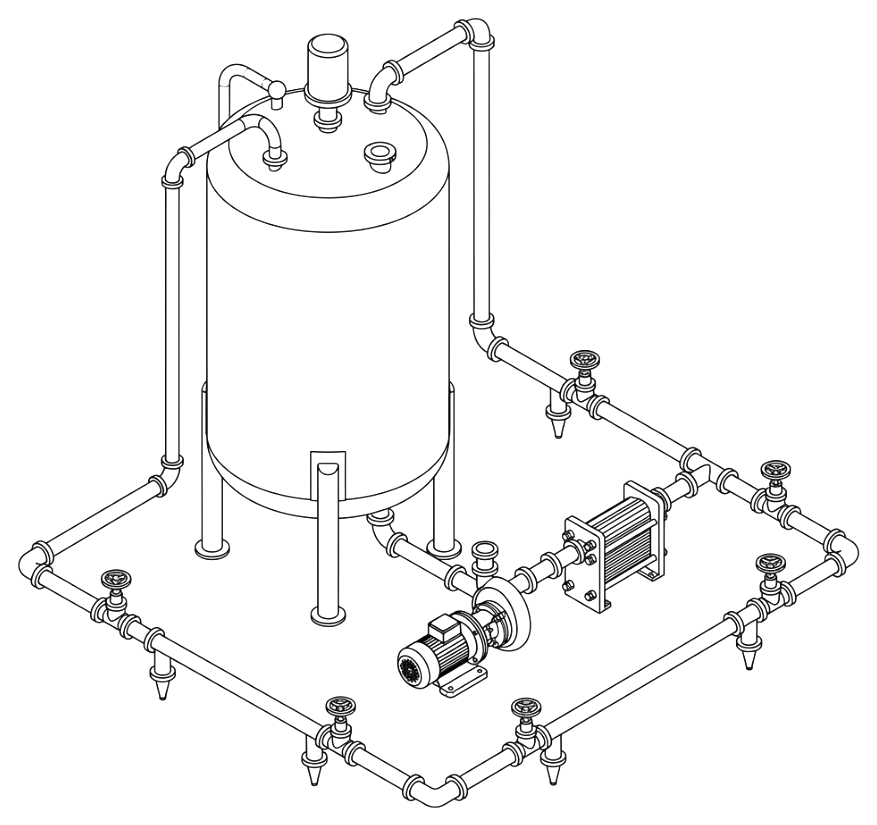
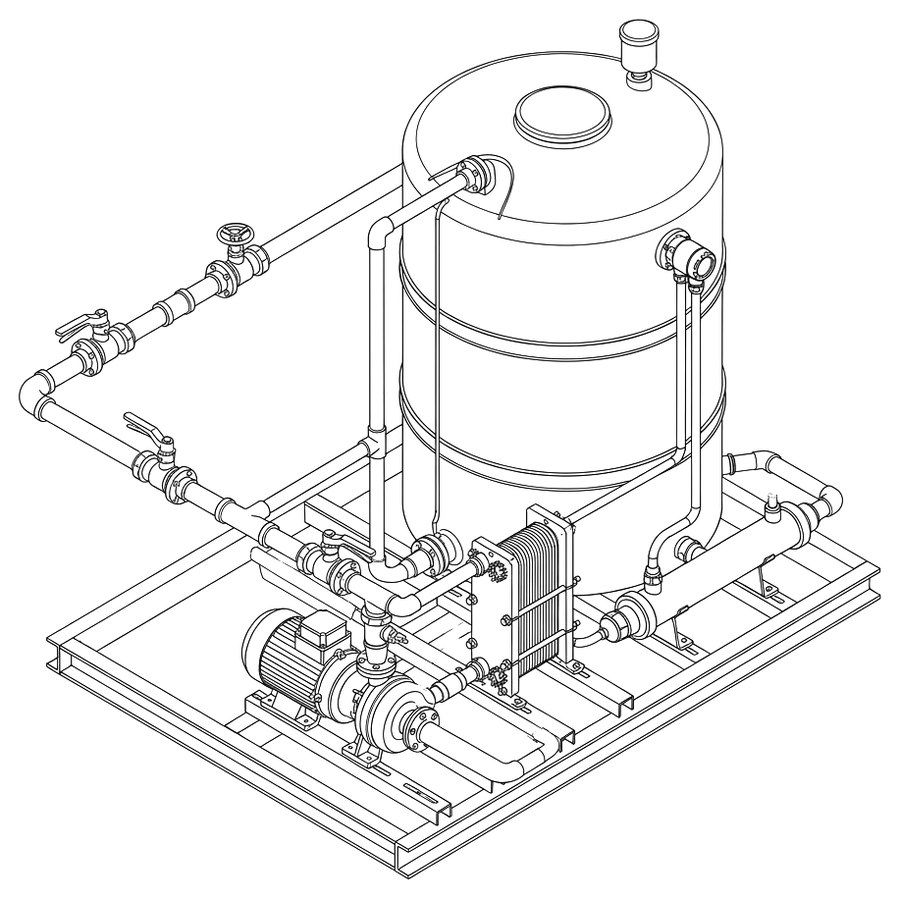
PP hero drawings for fabrication, storage and pharma
The three hero drawings that contradicted the polypropylene package are replaced, from the fixed
Illustration brief in Gemini 3.1 Pro:
- svc-fabrication: a butt-fusion machine joining two PP pipes (was an orbital weld head on sanitary
  stainless tube)
- sys-storage: a PP storage tank with vent filter, pump, heat exchanger, UV and a loop with
  point-of-use valves (was a stainless WFI-style tank)
- ind-pharma: a mixing vessel for oral liquids and creams fed from a PW point-of-use valve (was a
  sterile vial filler)

The old sources stay as -stainless / -sterile files and show as superseded in the media gallery;
the Gemini originals are kept in inspiration/gemini (65 to 67).

Changed region(s): [[0.0, 0.0, 0.9852, 1.0]]

diff --git a/assets/aquemi-site.js b/assets/aquemi-site.js
@@ -203,15 +203,15 @@ var ART={
  'sys-wfi-distillation':'Multi-effect WFI still: five columns, condenser and feed pump on one skid',
  'sys-wfi-membrane':'WFI membrane skid: double-pass RO, EDI, heat exchangers and ultrafilter',
  'sys-pure-steam':'Pure steam generator: evaporator column, separator, preheater and control panel',
- 'sys-storage':'Storage tank with distribution pump, heat exchanger and loop with point-of-use valves',
+ 'sys-storage':'Polypropylene storage tank with vent filter, distribution pump, heat exchanger, UV and loop with point-of-use valves',
  'sys-monitoring':'Wall-mounted analyser panel: TOC and conductivity transmitters, controller and sample line',
  'svc-design':'Skid design: a 3D frame model standing on its P&ID sheet, with scale rule and pencil',
- 'svc-fabrication':'Orbital weld head clamped on a sanitary tube, with tri-clamp fittings, gaskets and an elbow',
+ 'svc-fabrication':'Butt-fusion machine joining two polypropylene pipes, with heater plate, facing tool and a finished spool',
  'svc-fat-sat':'Water treatment skid hosed to a wheeled test cart with gauges, flow meter and laptop',
  'svc-service':'Field service kit: open toolbox, wrenches, spare filter cartridge, replacement pump and tri-clamp',
  'svc-upgrades':'Existing storage tank joined to a new skid module by flanged spools, one still on the hoist',
  'svc-cq':'Qualification kit: tabbed protocol binder, checklist clipboard and calibrated temperature probe',
- 'ind-pharma':'Sterile vial filling machine: enclosure with open doors, filling needles and vial conveyor',
+ 'ind-pharma':'Mixing vessel for oral liquids and creams, fed from a Purified Water point-of-use valve',
  'ind-biotech':'Jacketed bioprocess vessel with agitator drive, sanitary piping, valves and control box',
  'ind-meddevice':'Washer-disinfector with instrument racks and spray arms, fed by a purified water line',
  'ind-cdmo':'Two-room cleanroom suite with process vessels, a pass-through hatch and a shared water loop'

diff --git a/assets/src/parts/Hero.js b/assets/src/parts/Hero.js
@@ -7,15 +7,15 @@ var ART={
  'sys-wfi-distillation':'Multi-effect WFI still: five columns, condenser and feed pump on one skid',
  'sys-wfi-membrane':'WFI membrane skid: double-pass RO, EDI, heat exchangers and ultrafilter',
  'sys-pure-steam':'Pure steam generator: evaporator column, separator, preheater and control panel',
- 'sys-storage':'Storage tank with distribution pump, heat exchanger and loop with point-of-use valves',
+ 'sys-storage':'Polypropylene storage tank with vent filter, distribution pump, heat exchanger, UV and loop with point-of-use valves',
  'sys-monitoring':'Wall-mounted analyser panel: TOC and conductivity transmitters, controller and sample line',
  'svc-design':'Skid design: a 3D frame model standing on its P&ID sheet, with scale rule and pencil',
- 'svc-fabrication':'Orbital weld head clamped on a sanitary tube, with tri-clamp fittings, gaskets and an elbow',
+ 'svc-fabrication':'Butt-fusion machine joining two polypropylene pipes, with heater plate, facing tool and a finished spool',
  'svc-fat-sat':'Water treatment skid hosed to a wheeled test cart with gauges, flow meter and laptop',
  'svc-service':'Field service kit: open toolbox, wrenches, spare filter cartridge, replacement pump and tri-clamp',
  'svc-upgrades':'Existing storage tank joined to a new skid module by flanged spools, one still on the hoist',
  'svc-cq':'Qualification kit: tabbed protocol binder, checklist clipboard and calibrated temperature probe',
- 'ind-pharma':'Sterile vial filling machine: enclosure with open doors, filling needles and vial conveyor',
+ 'ind-pharma':'Mixing vessel for oral liquids and creams, fed from a Purified Water point-of-use valve',
  'ind-biotech':'Jacketed bioprocess vessel with agitator drive, sanitary piping, valves and control box',
  'ind-meddevice':'Washer-disinfector with instrument racks and spray arms, fed by a purified water line',
  'ind-cdmo':'Two-room cleanroom suite with process vessels, a pass-through hatch and a shared water loop'

diff --git a/tools/gallery.py b/tools/gallery.py
@@ -35,6 +35,15 @@ GEMINI_USE = {
     '64': 'Spot'}
 GEMINI_REFERENCE = {'58'}
 RETIRED = {'57': 'the cut icons were later replaced by the Lucide-style SVG set; see Archive', '64': 'the cut spots were retired when the site returned to the brand book; see Archive'}  # looked at as a target, not rebuilt as one thing
+# Equipment drawings redrawn on 2026-10-31 to match the offer (polypropylene PW package: no stainless piping, no sterile
+# products). page id -> (number of the old Gemini original, old source renamed in art/, what the old drawing showed).
+# The old ones show as superseded, the new ones as the PP replacements.
+ART_REPLACED = {
+    'svc-fabrication': ('14', 'svc-fabrication-stainless', 'orbital weld head on a sanitary stainless tube with tri-clamps'),
+    'sys-storage': ('08', 'sys-storage-stainless', 'stainless storage tank'),
+    'ind-pharma': ('22', 'ind-pharma-sterile', 'sterile vial filling machine')}
+ART_RETIRED_NOTE = 'Retired 2026-10-31: the %s, replaced by the polypropylene package drawing for the %s page'
+ART_PP_NOTE = 'PP replacement (2026-10-31) for the %s. '
 
 RECORD_SETS = [  # (folder in record/, label, order)
     ('pass7', 'Pass 7: the site today'),
@@ -214,7 +223,12 @@ def build():
         prompt, became = rows.get(name + '.png', ('', ''))
         if '-art-' in name:
             pid = name.split('-art-')[1]
-            add(f, 'gemini', 'source', title_of(name), 'Equipment drawing for the %s page; cleaned into assets/illustrations/%s.png' % (pid, pid), 'Illustration', order=int(num))
+            old = ART_REPLACED.get(pid)
+            if old and old[0] == num:
+                add(f, 'gemini', 'superseded', title_of(name), ART_RETIRED_NOTE % (old[2], pid), 'Illustration', order=int(num))
+            else:
+                note = 'Equipment drawing for the %s page; cleaned into assets/illustrations/%s.png' % (pid, pid)
+                add(f, 'gemini', 'source', title_of(name), (ART_PP_NOTE % old[2] if old else '') + note, 'Illustration', order=int(num))
         elif num in GEMINI_REFERENCE:
             add(f, 'gemini', 'reference', title_of(name), prompt or 'Looked at as a target for the page rhythm', order=int(num))
         else:
@@ -230,9 +244,15 @@ def build():
         comp = re.match(r'(\w+)', became).group(1) if became else None
         add(f, 'capture', 'built' if became else 'reference', title_of(b.rsplit('.', 1)[0]), (prompt + ' → ' + became) if became else prompt, comp)
 
+    retired_art = {v[1]: (pid, v[2]) for pid, v in ART_REPLACED.items()}
     for f in sorted(glob.glob(os.path.join(INS, 'art', '*.png'))):
         pid = os.path.basename(f)[:-4]
-        add(f, 'source', 'source', pid, 'Source drawing for assets/illustrations/%s.png' % pid, 'Illustration')
+        if pid in retired_art:
+            page, what = retired_art[pid]
+            add(f, 'source', 'superseded', pid, ART_RETIRED_NOTE % (what, page), 'Illustration')
+            continue
+        old = ART_REPLACED.get(pid)
+        add(f, 'source', 'source', pid, (ART_PP_NOTE % old[2] if old else '') + 'Source drawing for assets/illustrations/%s.png' % pid, 'Illustration')
 
     ARCHIVE = {'': ('Replaced concepts', 'Replaced by a later version; kept for the record', False),
                'retired-icons': ('Raster icons (retired)', 'Row icon cut from the Gemini icon sheet; replaced by the Lucide-style SVG set', True),

diff --git a/design-system/inspiration/README.md b/design-system/inspiration/README.md
@@ -85,6 +85,8 @@ To get originals at full size with Claude in Chrome: open the image's `=s1600` U
 
 `art/` holds the black-on-white source drawings; `tools/line_art.py` turns each into the transparent mask in `assets/illustrations/` that the Illustration component paints with a token. One file per page id (`sys-pw.png`, `svc-cq.png`, `ind-pharma.png` …). Prompt recipe: see the Illustration component README.
 
+A replaced drawing stays for the record: its old source is renamed with a suffix that says why, and `ART_REPLACED` in `tools/gallery.py` shows it as superseded. On 2026-10-31 three drawings that contradicted the offer were redrawn for the polypropylene PW package: `art/svc-fabrication-stainless.png` (orbital weld head with tri-clamps), `art/sys-storage-stainless.png` (stainless tank) and `art/ind-pharma-sterile.png` (vial filling machine), Gemini originals `gemini/14`, `08` and `22`. Their replacements are `art/svc-fabrication.png` (butt-fusion machine), `art/sys-storage.png` (PP tank and loop) and `art/ind-pharma.png` (mixing vessel fed by a PW point-of-use valve), originals `gemini/65`–`67`.
+
 ## How to make a new concept
 
 1. In Gemini (image generation), describe the section broadly: who Aquemi is, what the section must say, the palette (deep navy, warm limestone off-white, one steel-blue accent, thin precise lines), "flat desktop UI mockup, no device frame, no people", and ask it to surprise you with the layout. Don't dictate the layout.
